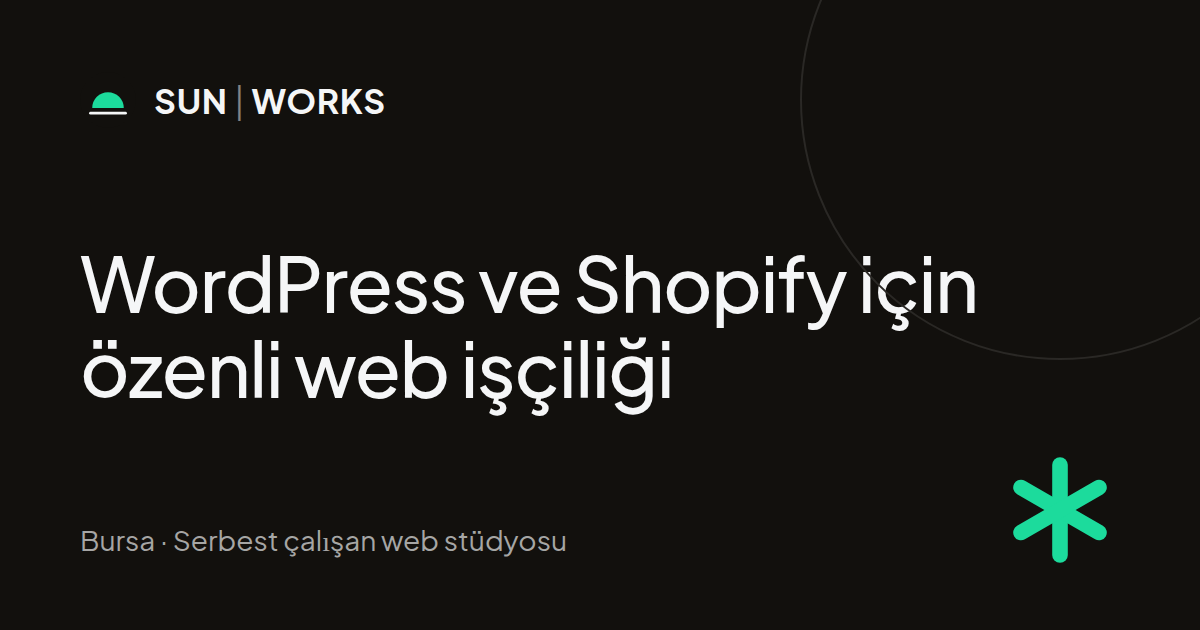
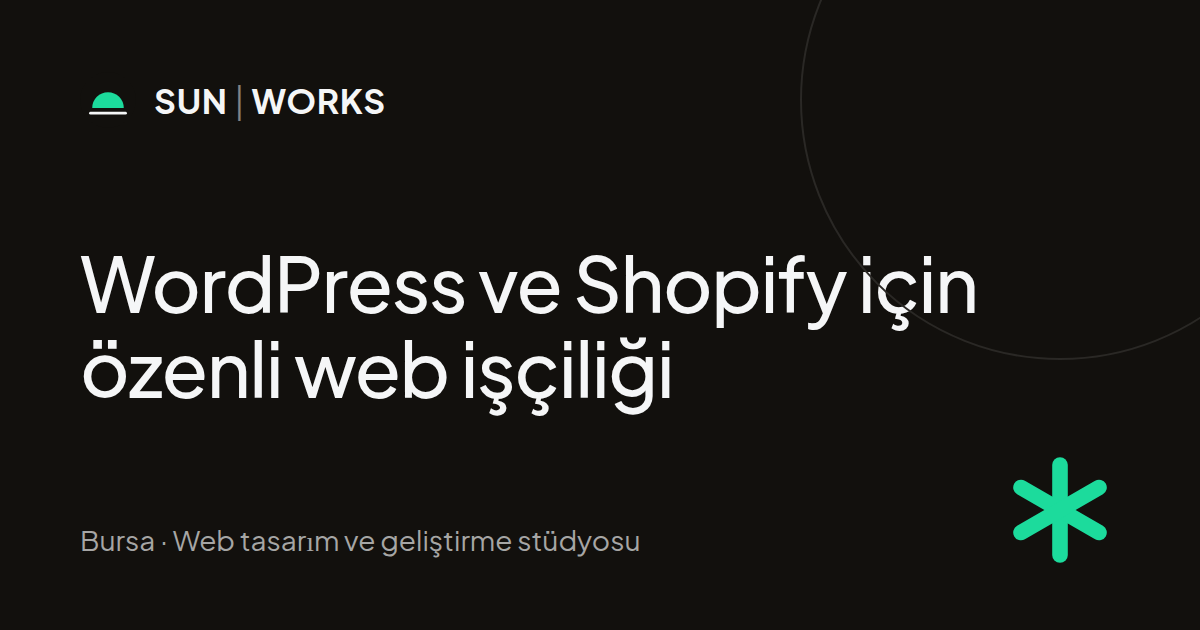
chore: present the site as a studio, tidy code and rewrite README
- Structured data names the studio instead of a person (founder/provider).
- Open Graph images and the Studio's default post author no longer describe a solo freelancer.
- Reuse otherLocale instead of six inline copies; drop the unused plainText helper.
- Rewrite the README for the project as it is deployed today.

Changed region(s): [[0.1233, 0.8444, 0.5242, 0.8746]]

diff --git a/studio/schemaTypes/index.ts b/studio/schemaTypes/index.ts
@@ -219,7 +219,7 @@ const post = defineType({
     slugField(),
     defineField({ name: 'publishedAt', type: 'date', validation: (r) => r.required() }),
     defineField({ name: 'updatedAt', type: 'date' }),
-    defineField({ name: 'author', type: 'string', initialValue: 'Uğur Güneş' }),
+    defineField({ name: 'author', type: 'string', initialValue: 'SUN | WORKS' }),
     defineField({ name: 'excerpt', type: 'text', rows: 3, validation: (r) => r.required().max(260) }),
     imageField('image', 'Cover image'),
     defineField({ name: 'tags', type: 'array', of: [defineArrayMember({ type: 'string' })] }),

diff --git a/src/lib/portable-text.ts b/src/lib/portable-text.ts
@@ -42,6 +42,3 @@ export function spans(block: Block): RenderSpan[] {
     };
   });
 }
-
-export const plainText = (blocks: PortableText): string =>
-  blocks.map((b) => b.children.map((c) => c.text).join('')).join('\n\n');

diff --git a/src/styles/tokens.css b/src/styles/tokens.css
@@ -1,4 +1,4 @@
-/* Design tokens — extracted from Figma (QALdjrTAJQ2wvLlvkPBg2r, nodes 1:81 / 1:9).
+/* Design tokens.
    Palette is fixed; neutrals are mixes of the palette only. */
 :root {
   --c-dark: #12100d;

diff --git a/README.md b/README.md
@@ -1,68 +1,78 @@
-# SUN | WORKS — web
+# SUN | WORKS
 
-Bilingual (TR at `/`, EN at `/en`) site for SUN | WORKS, a small solo-led web studio in Bursa.
-Astro 7 + TypeScript (strict), static-first, deployed to Cloudflare Workers with two API routes for forms.
+SUN | WORKS web stüdyosunun kurumsal sitesi. Türkçe (`/`) ve İngilizce (`/en`) olarak yayınlanır.
 
-## Stack
+## Teknolojiler
 
-| Area | Choice |
+| Alan | Kullanılan |
 | --- | --- |
-| Framework | Astro 7, static output, `ClientRouter` view transitions, tiny vanilla TS islands |
-| Hosting | Cloudflare Workers (static assets + `@astrojs/cloudflare` for `/api/*`) — free plan |
-| CMS | Sanity (free) with document-level i18n; local typed seed content mirrors the Sanity schemas until connected |
-| Forms | `/api/contact`, `/api/newsletter`: zod validation, honeypot, origin/CSRF checks, D1 rate limit, Turnstile, D1 storage |
-| Fonts | Plus Jakarta Sans Variable, self-hosted via `@fontsource-variable` (latin + latin-ext) |
-| Images | Unsplash (Unsplash License), optimized at build with `astro:assets` → WebP |
+| Arayüz | [Astro](https://astro.build) + TypeScript, statik sayfalar |
+| Barındırma | Cloudflare Workers (statik dosyalar + form API'leri) |
+| İçerik yönetimi | [Sanity](https://www.sanity.io) (Studio: `studio/` klasörü) |
+| Formlar | Cloudflare D1 veritabanı, Turnstile bot koruması, istek sınırlama |
+| Test | Node test runner, Playwright (uçtan uca + erişilebilirlik), Lighthouse |
 
-## Scripts
+## Klasör yapısı
+
+```
+src/
+  pages/        Sayfa yolları ve /api/* form uç noktaları
+  templates/    Sayfa şablonları
+  components/   Arayüz bileşenleri
+  content/      İçerik şeması (zod) ve yerel örnek içerik
+  lib/          İçerik okuma, görsel, SEO yardımcıları
+  server/       Form doğrulama, güvenlik ve istek sınırlama
+  scripts/      Tarayıcı tarafı küçük geliştirmeler
+studio/         Sanity Studio (içerik paneli)
+migrations/     D1 veritabanı tabloları
+tests/          Birim ve uçtan uca testler
+```
+
+## Yerel geliştirme
+
+Node.js 22.12 veya üstü gerekir.
 
 ```bash
 npm install
-cp .dev.vars.example .dev.vars      # Turnstile always-pass test secret + local salt
-npm run build                       # astro build + security headers/CSP
-npm run db:migrate:local            # create local D1 tables (state lives next to the built worker)
-npm run preview                     # wrangler dev on http://127.0.0.1:8788 (real Worker runtime, local D1)
-npm run lint                        # ESLint (typescript-eslint strict, sonarjs, security, astro) — zero warnings
-npm run typecheck                   # astro check + tsc
-npm test                            # unit + API security tests (node:test, real SQLite for D1 SQL)
-npm run test:e2e                    # Playwright: chromium/firefox/webkit × 390/768/1024/1440, axe, CLS, forms, headers
-npm run sanity:seed                 # export local content → dist-sanity/seed.ndjson (images attached)
+cp .dev.vars.example .dev.vars   # yerel test anahtarları
+npm run build
+npm run db:migrate:local         # yerel veritabanı tabloları
+npm run preview                  # http://127.0.0.1:8788
 ```
 
-## Content model
+Diğer komutlar:
 
-`src/content/schema.ts` (zod) ⇄ `studio/schemaTypes` (Sanity) — same `_type`s and fields:
-`siteSettings`, `navigation`, `homePage`, `service`, `post`, `page` (contact + legal). Each document has `language` (`tr`|`en`)
-and a shared `translationKey`, used for hreflang and the language switch.
+```bash
+npm run lint        # ESLint
+npm run typecheck   # Astro + TypeScript tip kontrolü
+npm test            # birim ve API testleri
+npm run test:e2e    # Playwright testleri
+```
 
-When `SANITY_PROJECT_ID` is set at build time, `src/lib/cms.ts` reads published documents from Sanity (GROQ over HTTPS, no SDK)
-and validates them with the same zod schemas; otherwise it uses `src/content/data/*`.
+## İçerik
 
-A Sanity webhook (on publish) → Cloudflare **Workers Builds deploy hook** rebuilds the site.
+İçerikler Sanity'de tutulur ve **https://sunworks.sanity.studio** üzerinden düzenlenir.
+Studio'da bir içerik yayınlandığında (Publish) site otomatik olarak yeniden derlenir ve birkaç dakika içinde güncellenir.
 
-## Environment
+`SANITY_PROJECT_ID` tanımlı değilse site, `src/content/data/` altındaki yerel örnek içerikle derlenir (testler bu şekilde çalışır).
+Her iki kaynak da `src/content/schema.ts` içindeki aynı şemayla doğrulanır.
 
-| Name | Where | Purpose |
+## Yayına alma
+
+`main` dalına gelen her değişiklik Cloudflare Workers Builds ile otomatik olarak derlenip yayınlanır.
+`studio/` klasöründeki değişiklikler GitHub Actions ile Sanity Studio'ya ayrıca yüklenir.
+
+## Ortam değişkenleri
+
+| Ad | Nerede | Açıklama |
 | --- | --- | --- |
-| `TURNSTILE_SECRET_KEY` | Worker secret | Turnstile verification (forms return 503 "unavailable" without it) |
-| `RATE_LIMIT_SALT` | Worker secret | salt for the hashed rate-limit key |
-| `PUBLIC_TURNSTILE_SITE_KEY` | build variable | Turnstile widget site key (defaults to Cloudflare's test key) |
-| `SANITY_PROJECT_ID`, `SANITY_DATASET` | build variables | switch content source to Sanity |
-| `FORMS_ENABLED` | `wrangler.jsonc` var | kill switch for both forms |
-| `RESEND_API_KEY` | (later) | email delivery is not implemented yet; messages are stored in D1 only |
+| `TURNSTILE_SECRET_KEY` | Worker secret | Turnstile doğrulaması (yoksa formlar kapalı kalır) |
+| `RATE_LIMIT_SALT` | Worker secret | İstek sınırlama anahtarı için tuz |
+| `PUBLIC_TURNSTILE_SITE_KEY` | Build değişkeni | Turnstile site anahtarı |
+| `SANITY_PROJECT_ID`, `SANITY_DATASET` | Build değişkeni | İçerik kaynağı (`.env.production`) |
+| `FORMS_ENABLED` | `wrangler.jsonc` | Formları topluca açıp kapatır |
+| `SANITY_AUTH_TOKEN` | GitHub secret | Studio yükleme yetkisi |
 
-## Design
+## Görseller
 
-Figma file `QALdjrTAJQ2wvLlvkPBg2r` (frame `1:81`, design-system frame `1:9`). Tokens live in `src/styles/tokens.css`.
-Palette is fixed: `#12100D`, `#F5F6F7`, `#1CDB9C` (accent never used as text on light backgrounds).
-The "notched" image corners are built in `src/components/Notched.astro` + `src/lib/notch.ts` (`clip-path: path()` computed via
-`ResizeObserver`, rounded-rectangle fallback).
-
-## Legal pages
-
-Privacy, terms and cookie texts describe only the data flows implemented in this repo and are flagged
-**"requires legal review"** (`legalReviewRequired: true`) until a lawyer has checked them.
-
-## Photo credits
-
-All photos are from [Unsplash](https://unsplash.com) under the Unsplash License. IDs: see `docs/photo-credits.md`.
+Fotoğraflar [Unsplash Lisansı](https://unsplash.com/license) kapsamında kullanılmaktadır. Liste: [`docs/photo-credits.md`](docs/photo-credits.md).
